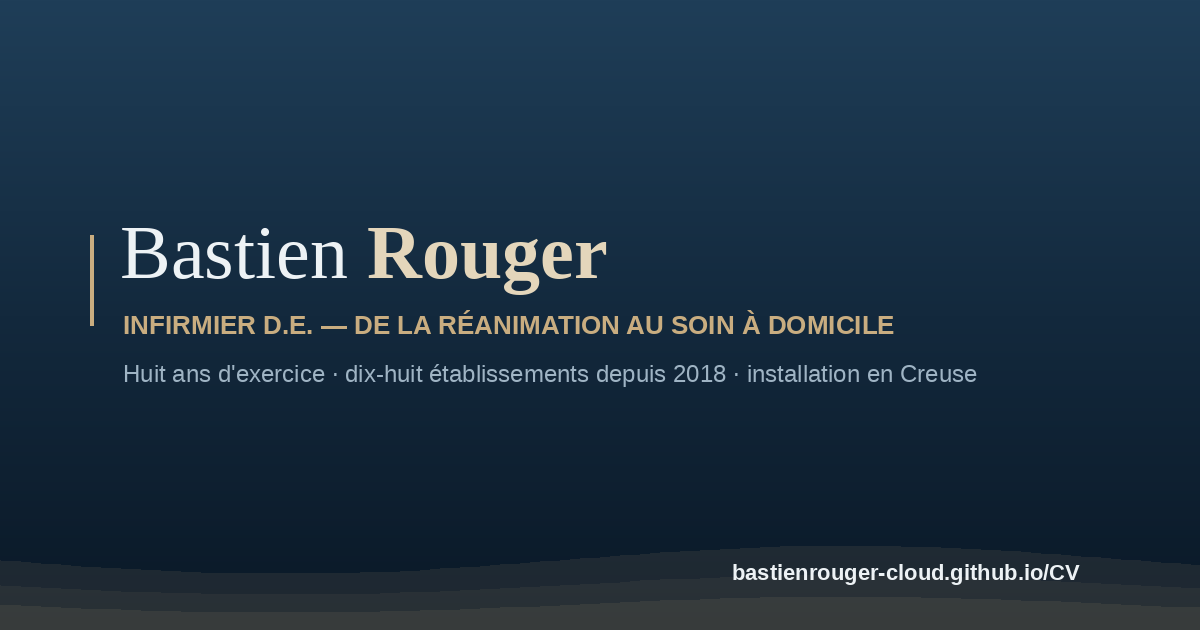
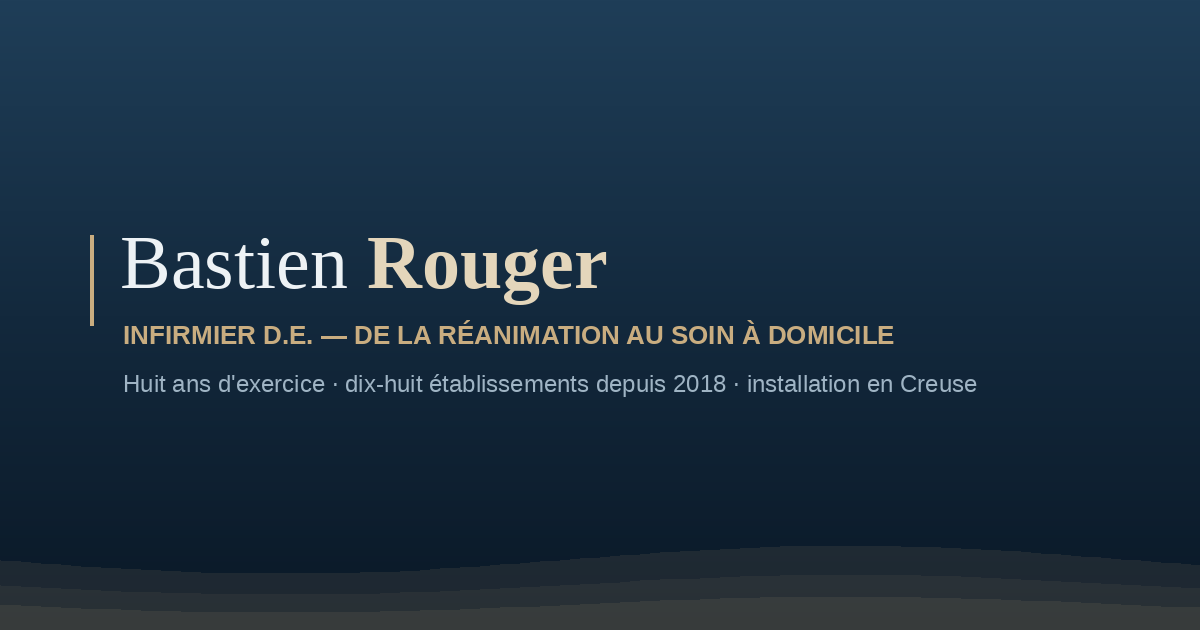
OG sans github

Changed region(s): [[0.0925, 0.3619, 0.74, 0.5429], [0.0925, 0.573, 0.8325, 0.6333], [0.6167, 0.8746, 0.8942, 0.9349]]

diff --git a/dossier-parcours-bastien-rouger.md b/dossier-parcours-bastien-rouger.md
@@ -483,9 +483,12 @@ QR fait papier → web, mais rien ne fait web → papier. Trois actions :
   potentiellement moche.
 - **`og:url` et `og:image` ajoutés**, plus `og:image:width/height` et
   `twitter:card` en bonus. Image `og-image.png` générée (1200×630, palette du
-  site, nom + accroche + url) et placée à la racine du dépôt à côté
+  site, nom + accroche) et placée à la racine du dépôt à côté
   d'`index.html` — donc `https://bastienrouger-cloud.github.io/CV/og-image.png`
-  une fois publié.
+  une fois publié. L'adresse GitHub Pages retirée de l'image le 1er août
+  2026 (question de Bastien) : redondante avec ce qu'affichent déjà les
+  messageries à côté de l'aperçu, et ça mettait en avant une URL qu'on a
+  nous-mêmes qualifiée de provisoire. À refaire si un nom de domaine arrive.
 - **Nom de domaine** (`cv.tonnom.fr` plutôt que `bastienrouger-cloud.github.io/CV/`)
   — noté, pas d'action : ça demande d'acheter/configurer un domaine, hors
   périmètre d'une session Cowork. À reprendre si Bastien franchit le pas.
